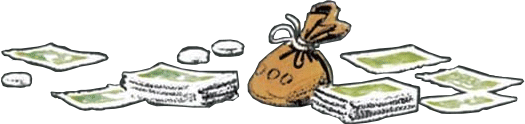
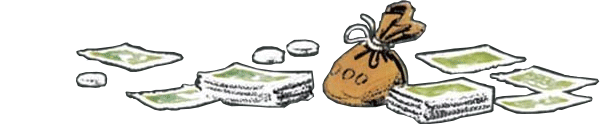
Add some space to the left of the money image to make it look centered

diff --git a/README.md b/README.md
@@ -86,6 +86,4 @@ Headhunter is heavily inspired by Aanand Prasad's [Deadweight gem](https://githu
 
 All provided functionality is provided "as is".
 
-<center>
-  <img src="docs/money.png" alt="" align="middle" />
-</center>
+<img src="docs/money.png" alt="" align="left" />
